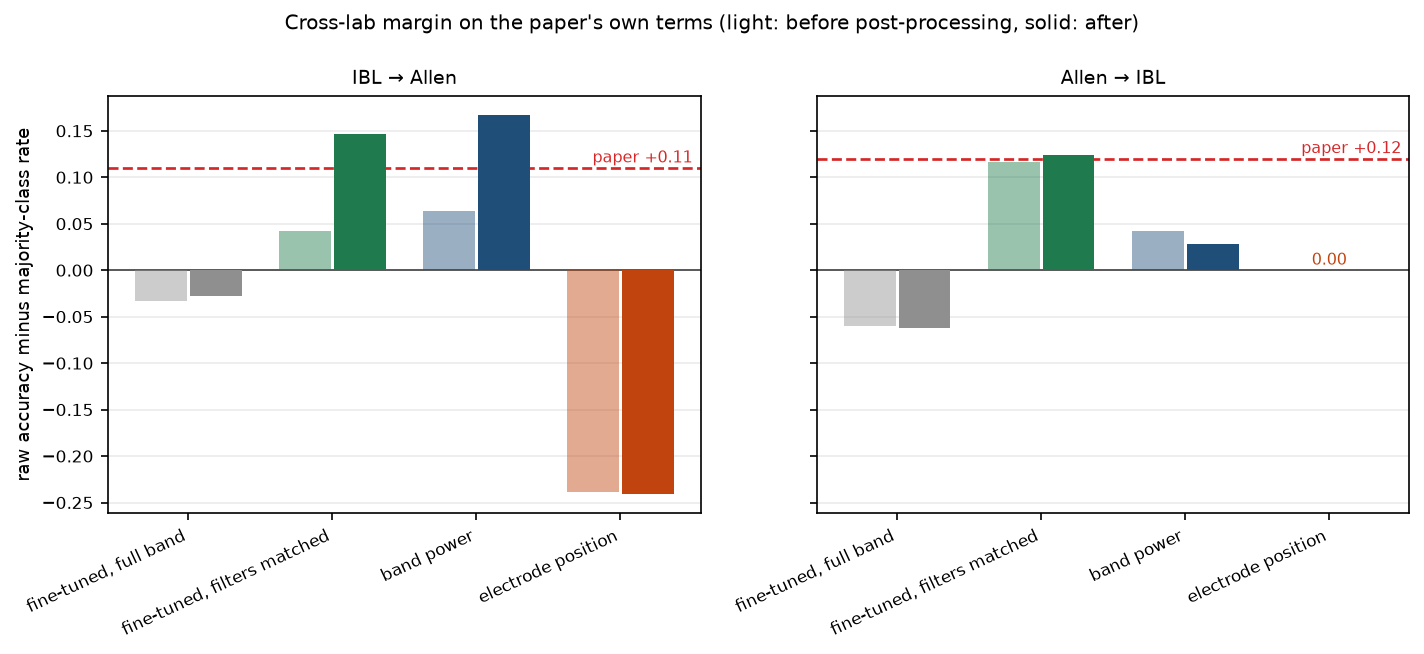
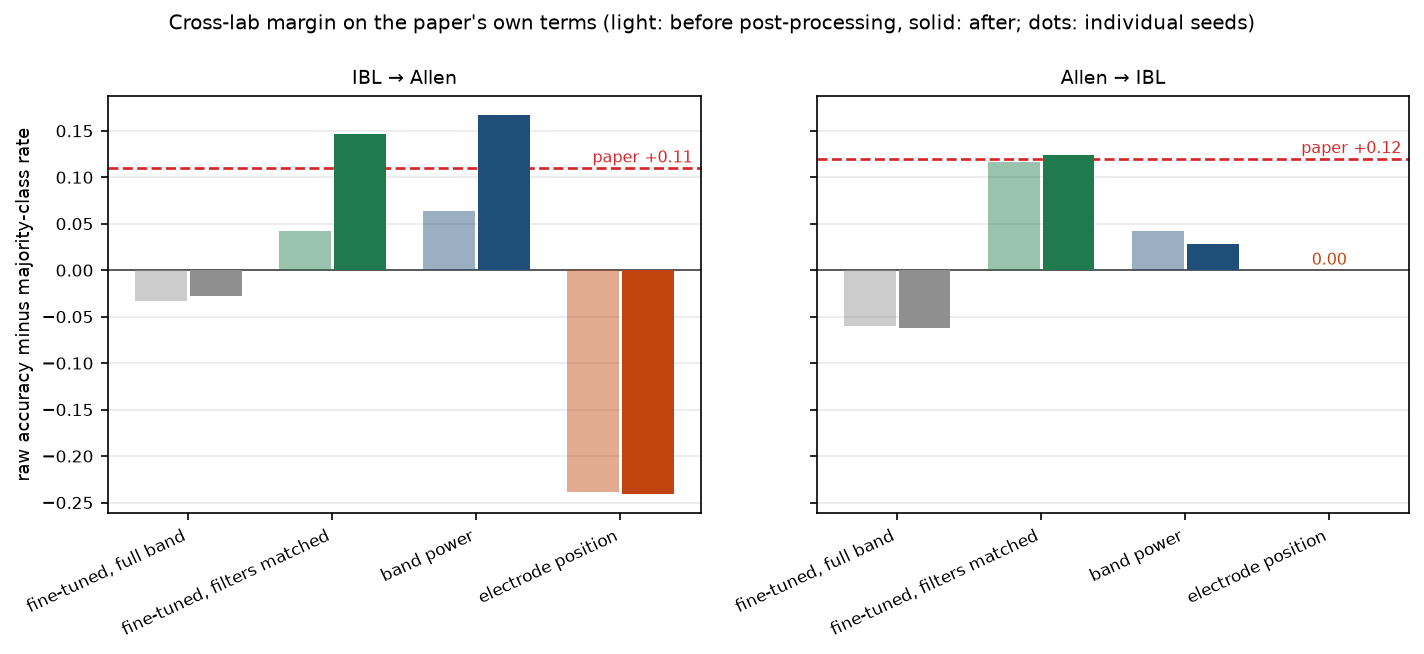
Seed-aware fixes table and figure; fine-tune report reads both run directories
Seeds of one configuration now share a table row (mean ± sd, n) and a bar (dots per seed),
so the error-bar runs drop in without edits. scripts/error_bar_finish.sh runs the post-hoc
steps on whichever runs have finished and regenerates every table and figure.

Changed region(s): [[0.1236, 0.0, 0.8961, 0.0612]]

diff --git a/lfpaudit/cli.py b/lfpaudit/cli.py
@@ -1039,7 +1039,9 @@ def finetune_run(
 
 @finetune_app.command("report")
 def finetune_report(
-    results: Path = typer.Option(Path("results/finetune")),
+    results: str = typer.Option(
+        "results/finetune,results/finetune_v2", help="Comma-separated run directories."
+    ),
     baselines: Path = typer.Option(Path("results/baselines")),
     view: str = typer.Option("4class"),
     out: Path = typer.Option(None, help="Write a markdown document here."),
@@ -1050,7 +1052,9 @@ def finetune_report(
     position, which needs no signal at all, and against the frozen checkpoint, which needed no
     training. Both are read from the committed baseline table so the two stages cannot drift.
     """
-    runs = sorted(Path(results).glob("*/*/per_group.csv"))
+    runs = sorted(
+        path for root in str(results).split(",") for path in Path(root).glob("*/*/per_group.csv")
+    )
     if not runs:
         raise typer.BadParameter(f"no runs found under {results}")
 
@@ -1781,31 +1785,53 @@ def fixes_table(
         if table is None:
             lines += ["| *(no results yet)* | | | | | | | |", ""]
             continue
-        part = table[(table["run"].str.startswith(scheme)) & (table["level"] == "chunk")]
-        for run, group in part.groupby("run", sort=False):
-            name = run.replace(f"{scheme}__", "")
-            name = {
-                "all_target_groups__seed0": "reproduction (Stage 3)",
-                "all_target_groups__seed0__lp100": "H: harmonised ≤100 Hz",
-                "all_target_groups__seed0__whiten": "W: per-probe whitening",
-                "baseline_position": "electrode position (control)",
-                "baseline_bandpower_full": "band power (control)",
-            }.get(name, name)
-            tag = run if "baseline" not in run else None
-            for row in group.itertuples():
+        part = table[(table["run"].str.startswith(scheme)) & (table["level"] == "chunk")].copy()
+        # A run tag is <scheme>__all_target_groups__seed<N>[__variant] or <scheme>__baseline_<x>.
+        # Seeds of one configuration are one row: mean, spread across seeds, and how many.
+        tail = part["run"].str.replace(f"{scheme}__", "", regex=False)
+        part["seed"] = tail.str.extract(r"seed(\d+)")[0]
+        part["config"] = tail.str.replace(r"all_target_groups__seed\d+", "finetune", regex=True)
+        labels = {
+            "finetune": "fine-tuned, full band",
+            "finetune__lp100": "fine-tuned, filters matched (≤100 Hz)",
+            "finetune__whiten": "fine-tuned, per-probe whitening",
+            "baseline_position": "electrode position (control)",
+            "baseline_bandpower_full": "band power (control)",
+        }
+        for config in [c for c in labels if c in set(part["config"])]:
+            runs = part[part["config"] == config]
+            tags = sorted(runs["run"].unique())
+            n_seeds = len(tags)
+            is_model = config.startswith("finetune")
+            ece = [cross_lab_ece(t) for t in tags] if is_model else []
+            ece = [float(v) for v in ece if v != "—"]
+            lab = [lab_identity(t) for t in tags] if is_model else []
+            lab = [float(v) for v in lab if v != "—"]
+            for stage in ("raw", "temporal", "spatial"):
+                rows = runs[runs["stage"] == stage]
+                if rows.empty:
+                    continue
+                margin = rows["raw_accuracy"] - rows["majority"]
+
+                def cell(values, signed=False):
+                    fmt = "+.3f" if signed else ".3f"
+                    text = format(values.mean(), fmt)
+                    return text + (f" ± {values.std():.3f}" if len(values) > 1 else "")
+
+                name = labels[config] + (f" (n={n_seeds} seeds)" if is_model else "")
                 lines.append(
-                    f"| {name} | {row.stage} | {row.raw_accuracy:.3f} | "
-                    f"{row.raw_accuracy - row.majority:+.3f} | {row.balanced_accuracy:.3f} | "
-                    f"{row.chance:.3f} | {cross_lab_ece(tag) if tag else '—'} | "
-                    f"{lab_identity(tag) if tag else '—'} |"
+                    f"| {name} | {stage} | {cell(rows['raw_accuracy'])} | {cell(margin, True)} | "
+                    f"{cell(rows['balanced_accuracy'])} | {rows['chance'].mean():.3f} | "
+                    f"{(format(sum(ece) / len(ece), '.3f') if ece else '—')} | "
+                    f"{(format(sum(lab) / len(lab), '.3f') if lab else '—')} |"
                 )
         # Lever C rows come from their own result files, with the controls that qualify them.
         for path in sorted(Path(adapt_dir).glob(f"{scheme}__*.csv")):
             row = pd.read_csv(path).iloc[0]
             source = str(row["run"]).replace(f"{scheme}__", "")
             source = {
-                "all_target_groups__seed0": "reproduction",
-                "all_target_groups__seed0__lp100": "H: harmonised ≤100 Hz",
+                "all_target_groups__seed0": "fine-tuned, full band (seed 0)",
+                "all_target_groups__seed0__lp100": "fine-tuned, filters matched (seed 0)",
             }.get(source, source)
             lines.append(
                 f"| {source} + C: per-probe centering | — | {row['raw_accuracy']:.3f} | "

diff --git a/scripts/make_figures.py b/scripts/make_figures.py
@@ -542,8 +542,8 @@ def fixes_figure(table: pd.DataFrame, out_path: Path) -> Path:
     # Whitening is left to the detailed table: it lost to the low-pass in both directions, and
     # this figure opens the README, where it has one thing to say.
     names = {
-        "all_target_groups__seed0": "fine-tuned, full band",
-        "all_target_groups__seed0__lp100": "fine-tuned, filters matched",
+        "finetune": "fine-tuned, full band",
+        "finetune__lp100": "fine-tuned, filters matched",
         "baseline_bandpower_full": "band power",
         "baseline_position": "electrode position",
     }
@@ -558,6 +558,8 @@ def fixes_figure(table: pd.DataFrame, out_path: Path) -> Path:
     chunk["config"] = (
         chunk["run"]
         .str.replace(r"^cross_lab_\w+?_to_\w+?__", "", regex=True)
+        # Seeds of one configuration share a bar: its height is their mean, the dots are each seed.
+        .str.replace(r"all_target_groups__seed\d+", "finetune", regex=True)
         .map(lambda k: names.get(k, k))
     )
     chunk["margin"] = chunk["raw_accuracy"] - chunk["majority"]
@@ -570,11 +572,18 @@ def fixes_figure(table: pd.DataFrame, out_path: Path) -> Path:
         part = chunk[chunk["scheme"] == scheme]
         configs = [c for c in colours if c in set(part["config"])]
         for position, config in enumerate(configs):
-            rows = part[part["config"] == config].set_index("stage")
-            before = float(rows.loc["raw", "margin"])
-            after = float(rows.loc["spatial", "margin"]) if "spatial" in rows.index else before
+            rows = part[part["config"] == config]
+            raw = rows.loc[rows["stage"] == "raw", "margin"]
+            voted = rows.loc[rows["stage"] == "spatial", "margin"]
+            voted = voted if len(voted) else raw
+            before, after = float(raw.mean()), float(voted.mean())
             ax.bar(position - 0.19, before, width=0.36, color=colours[config], alpha=0.45, zorder=2)
             ax.bar(position + 0.19, after, width=0.36, color=colours[config], zorder=2)
+            if len(voted) > 1:
+                for offset, values in ((-0.19, raw), (0.19, voted)):
+                    ax.scatter(
+                        [position + offset] * len(values), values, s=9, color="#111111", zorder=3
+                    )
             if abs(after) < 0.004:  # a bar of zero height still deserves to be seen
                 ax.text(position, 0.006, "0.00", ha="center", fontsize=7.5, color=colours[config])
         label, published = paper[scheme]
@@ -595,7 +604,8 @@ def fixes_figure(table: pd.DataFrame, out_path: Path) -> Path:
         ax.grid(axis="y", alpha=0.25, zorder=0)
     axes[0][0].set_ylabel("raw accuracy minus majority-class rate", fontsize=8.5)
     fig.suptitle(
-        "Cross-lab margin on the paper's own terms (light: before post-processing, solid: after)",
+        "Cross-lab margin on the paper's own terms "
+        "(light: before post-processing, solid: after; dots: individual seeds)",
         fontsize=9.5,
     )
     fig.tight_layout()

diff --git a/docs/RESULTS_FIXES.md b/docs/RESULTS_FIXES.md
@@ -14,24 +14,24 @@ Published, Figure 2e *(figure)*: raw 0.56 against majority 0.45, **margin +0.11*
 
 | configuration | stage | raw | margin | balanced | chance | cross-lab ECE | lab identity |
 |---|---|---:|---:|---:|---:|---:|---:|
-| reproduction (Stage 3) | raw | 0.423 | -0.033 | 0.242 | 0.250 | 0.560 | 0.997 |
-| reproduction (Stage 3) | temporal | 0.422 | -0.034 | 0.237 | 0.250 | 0.560 | 0.997 |
-| reproduction (Stage 3) | spatial | 0.428 | -0.028 | 0.240 | 0.250 | 0.560 | 0.997 |
-| H: harmonised ≤100 Hz | raw | 0.498 | +0.042 | 0.455 | 0.250 | 0.352 | 0.830 |
-| H: harmonised ≤100 Hz | temporal | 0.586 | +0.131 | 0.528 | 0.250 | 0.352 | 0.830 |
-| H: harmonised ≤100 Hz | spatial | 0.602 | +0.147 | 0.555 | 0.250 | 0.352 | 0.830 |
-| W: per-probe whitening | raw | 0.293 | -0.163 | 0.321 | 0.250 | 0.534 | 0.912 |
-| W: per-probe whitening | temporal | 0.281 | -0.175 | 0.324 | 0.250 | 0.534 | 0.912 |
-| W: per-probe whitening | spatial | 0.265 | -0.191 | 0.303 | 0.250 | 0.534 | 0.912 |
-| band power (control) | raw | 0.520 | +0.064 | 0.379 | 0.250 | — | — |
-| band power (control) | temporal | 0.596 | +0.141 | 0.424 | 0.250 | — | — |
-| band power (control) | spatial | 0.622 | +0.167 | 0.436 | 0.250 | — | — |
+| fine-tuned, full band (n=1 seeds) | raw | 0.423 | -0.033 | 0.242 | 0.250 | 0.560 | 0.997 |
+| fine-tuned, full band (n=1 seeds) | temporal | 0.422 | -0.034 | 0.237 | 0.250 | 0.560 | 0.997 |
+| fine-tuned, full band (n=1 seeds) | spatial | 0.428 | -0.028 | 0.240 | 0.250 | 0.560 | 0.997 |
+| fine-tuned, filters matched (≤100 Hz) (n=1 seeds) | raw | 0.498 | +0.042 | 0.455 | 0.250 | 0.352 | 0.830 |
+| fine-tuned, filters matched (≤100 Hz) (n=1 seeds) | temporal | 0.586 | +0.131 | 0.528 | 0.250 | 0.352 | 0.830 |
+| fine-tuned, filters matched (≤100 Hz) (n=1 seeds) | spatial | 0.602 | +0.147 | 0.555 | 0.250 | 0.352 | 0.830 |
+| fine-tuned, per-probe whitening (n=1 seeds) | raw | 0.293 | -0.163 | 0.321 | 0.250 | 0.534 | 0.912 |
+| fine-tuned, per-probe whitening (n=1 seeds) | temporal | 0.281 | -0.175 | 0.324 | 0.250 | 0.534 | 0.912 |
+| fine-tuned, per-probe whitening (n=1 seeds) | spatial | 0.265 | -0.191 | 0.303 | 0.250 | 0.534 | 0.912 |
 | electrode position (control) | raw | 0.217 | -0.239 | 0.373 | 0.250 | — | — |
 | electrode position (control) | temporal | 0.217 | -0.239 | 0.373 | 0.250 | — | — |
 | electrode position (control) | spatial | 0.215 | -0.241 | 0.372 | 0.250 | — | — |
-| reproduction + C: per-probe centering | — | 0.130 | -0.322 | 0.239 | 0.200 | 0.535 | 0.526 |
+| band power (control) | raw | 0.520 | +0.064 | 0.379 | 0.250 | — | — |
+| band power (control) | temporal | 0.596 | +0.141 | 0.424 | 0.250 | — | — |
+| band power (control) | spatial | 0.622 | +0.167 | 0.436 | 0.250 | — | — |
+| fine-tuned, full band (seed 0) + C: per-probe centering | — | 0.130 | -0.322 | 0.239 | 0.200 | 0.535 | 0.526 |
 | *controls for the row above* | — | uncentred head 0.416 | | centred in-lab 0.647 | | | |
-| H: harmonised ≤100 Hz + C: per-probe centering | — | 0.486 | +0.034 | 0.355 | 0.200 | 0.389 | 0.494 |
+| fine-tuned, filters matched (seed 0) + C: per-probe centering | — | 0.486 | +0.034 | 0.355 | 0.200 | 0.389 | 0.494 |
 | *controls for the row above* | — | uncentred head 0.459 | | centred in-lab 0.574 | | | |
 
 ## Allen → IBL
@@ -40,20 +40,20 @@ Published, Figure 2e *(figure)*: raw 0.49 against majority 0.37, **margin +0.12*
 
 | configuration | stage | raw | margin | balanced | chance | cross-lab ECE | lab identity |
 |---|---|---:|---:|---:|---:|---:|---:|
-| reproduction (Stage 3) | raw | 0.309 | -0.060 | 0.258 | 0.250 | 0.656 | 0.994 |
-| reproduction (Stage 3) | temporal | 0.307 | -0.063 | 0.256 | 0.250 | 0.656 | 0.994 |
-| reproduction (Stage 3) | spatial | 0.307 | -0.063 | 0.256 | 0.250 | 0.656 | 0.994 |
-| H: harmonised ≤100 Hz | raw | 0.485 | +0.116 | 0.370 | 0.250 | 0.258 | 0.735 |
-| H: harmonised ≤100 Hz | temporal | 0.495 | +0.125 | 0.361 | 0.250 | 0.258 | 0.735 |
-| H: harmonised ≤100 Hz | spatial | 0.493 | +0.124 | 0.360 | 0.250 | 0.258 | 0.735 |
-| W: per-probe whitening | raw | 0.488 | +0.118 | 0.368 | 0.250 | 0.333 | 0.805 |
-| W: per-probe whitening | temporal | 0.465 | +0.096 | 0.335 | 0.250 | 0.333 | 0.805 |
-| W: per-probe whitening | spatial | 0.465 | +0.096 | 0.335 | 0.250 | 0.333 | 0.805 |
-| band power (control) | raw | 0.412 | +0.042 | 0.333 | 0.250 | — | — |
-| band power (control) | temporal | 0.403 | +0.033 | 0.332 | 0.250 | — | — |
-| band power (control) | spatial | 0.398 | +0.029 | 0.329 | 0.250 | — | — |
+| fine-tuned, full band (n=1 seeds) | raw | 0.309 | -0.060 | 0.258 | 0.250 | 0.656 | 0.994 |
+| fine-tuned, full band (n=1 seeds) | temporal | 0.307 | -0.063 | 0.256 | 0.250 | 0.656 | 0.994 |
+| fine-tuned, full band (n=1 seeds) | spatial | 0.307 | -0.063 | 0.256 | 0.250 | 0.656 | 0.994 |
+| fine-tuned, filters matched (≤100 Hz) (n=1 seeds) | raw | 0.485 | +0.116 | 0.370 | 0.250 | 0.258 | 0.735 |
+| fine-tuned, filters matched (≤100 Hz) (n=1 seeds) | temporal | 0.495 | +0.125 | 0.361 | 0.250 | 0.258 | 0.735 |
+| fine-tuned, filters matched (≤100 Hz) (n=1 seeds) | spatial | 0.493 | +0.124 | 0.360 | 0.250 | 0.258 | 0.735 |
+| fine-tuned, per-probe whitening (n=1 seeds) | raw | 0.488 | +0.118 | 0.368 | 0.250 | 0.333 | 0.805 |
+| fine-tuned, per-probe whitening (n=1 seeds) | temporal | 0.465 | +0.096 | 0.335 | 0.250 | 0.333 | 0.805 |
+| fine-tuned, per-probe whitening (n=1 seeds) | spatial | 0.465 | +0.096 | 0.335 | 0.250 | 0.333 | 0.805 |
 | electrode position (control) | raw | 0.370 | +0.000 | 0.250 | 0.250 | — | — |
 | electrode position (control) | temporal | 0.370 | +0.000 | 0.250 | 0.250 | — | — |
 | electrode position (control) | spatial | 0.370 | +0.000 | 0.250 | 0.250 | — | — |
-| H: harmonised ≤100 Hz + C: per-probe centering | — | 0.465 | +0.096 | 0.413 | 0.250 | 0.145 | 0.463 |
+| band power (control) | raw | 0.412 | +0.042 | 0.333 | 0.250 | — | — |
+| band power (control) | temporal | 0.403 | +0.033 | 0.332 | 0.250 | — | — |
+| band power (control) | spatial | 0.398 | +0.029 | 0.329 | 0.250 | — | — |
+| fine-tuned, filters matched (seed 0) + C: per-probe centering | — | 0.465 | +0.096 | 0.413 | 0.250 | 0.145 | 0.463 |
 | *controls for the row above* | — | uncentred head 0.497 | | centred in-lab 0.638 | | | |

diff --git a/docs/RESULTS_FINETUNE.md b/docs/RESULTS_FINETUNE.md
@@ -4,7 +4,9 @@
 
 | run | band | groups | balanced accuracy | chance | ECE | lab identity |
 |---|---|---:|---:|---:|---:|---:|
-| cross_lab_allen_to_ibl__all_target_groups__seed0 | full | 7 | 0.302 +/- 0.063 | 0.298 | 0.655 | 0.994 |
+| cross_lab_allen_to_ibl__all_target_groups__seed0 | full | 14 | 0.302 +/- 0.061 | 0.298 | 0.655 | 0.994 |
+| cross_lab_allen_to_ibl__all_target_groups__seed0__lp100 | <=100 Hz | 7 | 0.422 +/- 0.063 | 0.298 | 0.266 | 0.735 |
+| cross_lab_allen_to_ibl__all_target_groups__seed0__whiten | full | 7 | 0.428 +/- 0.075 | 0.298 | 0.334 | 0.805 |
 
 Stage 2 baselines on the same scheme, for comparison:
 
@@ -20,7 +22,9 @@ Stage 2 baselines on the same scheme, for comparison:
 
 | run | band | groups | balanced accuracy | chance | ECE | lab identity |
 |---|---|---:|---:|---:|---:|---:|
-| cross_lab_ibl_to_allen__all_target_groups__seed0 | full | 10 | 0.340 +/- 0.100 | 0.358 | 0.535 | 0.997 |
+| cross_lab_ibl_to_allen__all_target_groups__seed0 | full | 20 | 0.340 +/- 0.098 | 0.358 | 0.535 | 0.997 |
+| cross_lab_ibl_to_allen__all_target_groups__seed0__lp100 | <=100 Hz | 10 | 0.468 +/- 0.147 | 0.358 | 0.361 | 0.830 |
+| cross_lab_ibl_to_allen__all_target_groups__seed0__whiten | full | 10 | 0.369 +/- 0.149 | 0.358 | 0.524 | 0.912 |
 
 Stage 2 baselines on the same scheme, for comparison:
 
